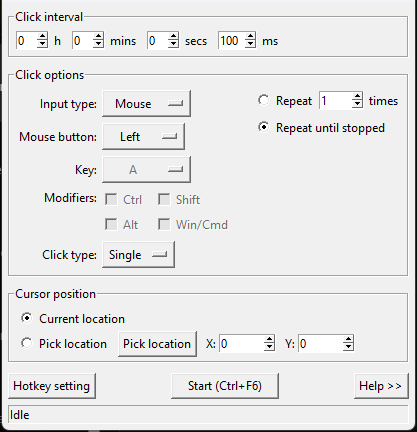
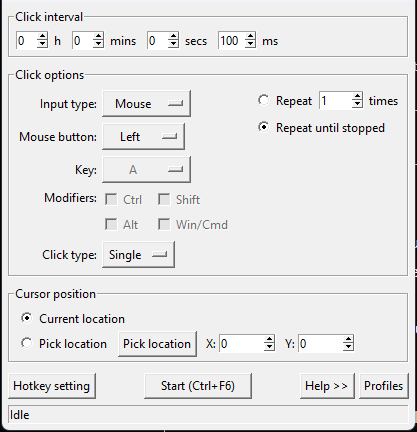
Add profiles and keyboard mouse action sequences

diff --git a/autoclicker/app.py b/autoclicker/app.py
@@ -7,9 +7,10 @@ import webbrowser
 from . import keys as keymod
 from .config import load_config, save_config
 from .engine import PressEngine, PressSettings
+from .profiles import load_profiles, save_profiles
 from . import updater
 
-APP_NAME = "AutoKeyPresser 1.1"
+APP_NAME = "AutoKeyPresser 1.2"
 
 HOTKEY_MODS = [
     "None",
@@ -68,6 +69,7 @@ class AutoClickerApp:
         self.queue = queue.Queue()
         self.engine = None
         self.hotkey_listener = None
+        self.pending_actions = []
 
         self._build_ui()
         self._apply_config()
@@ -208,6 +210,9 @@ class AutoClickerApp:
         tk.Button(bottom, text="Help >>", command=self._open_help).grid(
             row=0, column=2, padx=(4, 0), pady=2
         )
+        tk.Button(bottom, text="Profiles", command=self._open_profiles).grid(
+            row=0, column=3, padx=(4, 0), pady=2
+        )
 
         # --- Status bar ------------------------------------------------------
         self.status_var = tk.StringVar(value="Idle")
@@ -292,6 +297,32 @@ class AutoClickerApp:
         s.fixed_y = int(self.y_var.get() or 0)
         return s
 
+    def _current_action(self):
+        settings = self._collect_settings()
+        return {
+            "input_type": settings.input_type,
+            "mouse_button": settings.mouse_button,
+            "key": settings.key,
+            "modifiers": list(settings.modifiers),
+            "click_type": settings.click_type,
+            "use_fixed_position": settings.use_fixed_position,
+            "fixed_x": settings.fixed_x,
+            "fixed_y": settings.fixed_y,
+        }
+
+    def _apply_action(self, action):
+        self.input_type_var.set("Keyboard" if action.get("input_type") == "keyboard" else "Mouse")
+        self.mouse_button_var.set(action.get("mouse_button", "left").title())
+        self.key_var.set(next((d for d, k in keymod.KEY_MAP if k == action.get("key")), "A"))
+        modifiers = action.get("modifiers", [])
+        for name, var in self.modifier_vars.items():
+            var.set(keymod.os_modifier(name) in modifiers)
+        self.click_type_var.set(action.get("click_type", "single").title())
+        self.cursor_mode_var.set("pick" if action.get("use_fixed_position") else "current")
+        self.x_var.set(str(action.get("fixed_x", 0)))
+        self.y_var.set(str(action.get("fixed_y", 0)))
+        self._refresh_action_fields()
+
     def _toggle(self):
         if self.engine and self.engine.running:
             self._stop()
@@ -307,6 +338,7 @@ class AutoClickerApp:
             messagebox.showerror(APP_NAME, "Please enter valid numbers.")
             return
         self.engine = PressEngine(self.settings, on_status=self.queue.put)
+        self.settings.actions = list(self.pending_actions)
         self.engine.start()
         self._update_running_ui(True)
         self.status_var.set("Running - clicks: 0")
@@ -519,3 +551,83 @@ content you own or are authorized to automate.
         finally:
             self._stop_hotkey_listener()
             self.root.destroy()
+
+    def _open_profiles(self):
+        profiles = load_profiles()
+        win = tk.Toplevel(self.root)
+        win.title("Profiles and sequences")
+        win.resizable(False, False)
+        win.transient(self.root)
+
+        names = tk.StringVar(value=sorted(profiles))
+        tk.Label(win, text="Saved profiles:").grid(row=0, column=0, padx=6, pady=(6, 2), sticky="w")
+        listing = tk.Listbox(win, listvariable=names, height=7, width=28, exportselection=False)
+        listing.grid(row=1, column=0, columnspan=2, padx=6, pady=2)
+        name_var = tk.StringVar()
+        tk.Label(win, text="Name:").grid(row=2, column=0, padx=6, sticky="e")
+        tk.Entry(win, textvariable=name_var, width=24).grid(row=2, column=1, padx=6, pady=4)
+
+        def selected_name():
+            selected = listing.curselection()
+            return listing.get(selected[0]) if selected else name_var.get().strip()
+
+        def refresh():
+            names.set(sorted(profiles))
+
+        def save_current():
+            name = name_var.get().strip()
+            if not name:
+                messagebox.showerror(APP_NAME, "Enter a profile name.", parent=win)
+                return
+            try:
+                action = self._current_action()
+            except ValueError:
+                messagebox.showerror(APP_NAME, "Please enter valid values first.", parent=win)
+                return
+            profiles[name] = {"actions": [action]}
+            save_profiles(profiles)
+            refresh()
+
+        def add_action():
+            name = selected_name()
+            if not name:
+                messagebox.showerror(APP_NAME, "Select or enter a profile name.", parent=win)
+                return
+            try:
+                action = self._current_action()
+            except ValueError:
+                messagebox.showerror(APP_NAME, "Please enter valid values first.", parent=win)
+                return
+            profiles.setdefault(name, {"actions": []}).setdefault("actions", []).append(action)
+            save_profiles(profiles)
+            name_var.set(name)
+            refresh()
+
+        def load_profile(run=False):
+            name = selected_name()
+            profile = profiles.get(name, {})
+            actions = profile.get("actions", [])
+            if not actions:
+                return
+            self._apply_action(actions[0])
+            self.pending_actions = actions if len(actions) > 1 else []
+            if run:
+                self._start()
+
+        def delete_profile():
+            name = selected_name()
+            if name in profiles:
+                del profiles[name]
+                save_profiles(profiles)
+                refresh()
+
+        buttons = tk.Frame(win)
+        buttons.grid(row=3, column=0, columnspan=2, pady=6)
+        for text, command in (
+            ("Save current", save_current),
+            ("Add action", add_action),
+            ("Load", load_profile),
+            ("Run sequence", lambda: load_profile(True)),
+            ("Delete", delete_profile),
+        ):
+            tk.Button(buttons, text=text, command=command).pack(side="left", padx=2)

diff --git a/autoclicker/engine.py b/autoclicker/engine.py
@@ -17,6 +17,7 @@ class PressSettings:
     use_fixed_position: bool = False
     fixed_x: int = 0
     fixed_y: int = 0
+    actions: list = field(default_factory=list)
 
 
 class PressEngine:
@@ -52,32 +53,52 @@ class PressEngine:
                 self.settings.repeat_count, 0
             )
             done = 0
+            cycles = 0
+            actions = self.settings.actions or [self.settings]
             while not self._stop_event.is_set():
-                self._press_once()
-                self.count += 1
-                done += 1
-                self.on_status(("status", self.count))
-                if limit is not None and done >= limit:
+                for action in actions:
+                    if self._stop_event.is_set():
+                        break
+                    self._press_action(action)
+                    self.count += 1
+                    done += 1
+                    self.on_status(("status", self.count))
+                    if self._stop_event.wait(interval):
+                        break
+                cycles += 1
+                if limit is not None and cycles >= limit:
                     break
-                self._stop_event.wait(interval)
         finally:
             self.on_status(("done", self.count))
 
     def _press_once(self):
-        s = self.settings
-        if s.input_type == "mouse":
-            x, y = (s.fixed_x, s.fixed_y) if s.use_fixed_position else pyautogui.position()
-            if s.click_type == "double":
-                pyautogui.click(x, y, clicks=2, interval=0.02, button=s.mouse_button)
-            else:
-                pyautogui.click(x, y, button=s.mouse_button)
+        self._press_action(self.settings)
+
+    def _press_action(self, action):
+        if isinstance(action, PressSettings):
+            value = lambda name, default=None: getattr(action, name, default)
         else:
-            if s.modifiers:
-                pyautogui.hotkey(*s.modifiers, s.key)
+            value = lambda name, default=None: action.get(name, default)
+
+        if value("input_type", "mouse") == "mouse":
+            x, y = (
+                (value("fixed_x", 0), value("fixed_y", 0))
+                if value("use_fixed_position", False)
+                else pyautogui.position()
+            )
+            if value("click_type", "single") == "double":
+                pyautogui.click(x, y, clicks=2, interval=0.02, button=value("mouse_button", "left"))
             else:
-                pyautogui.press(s.key)
-            if s.click_type == "double":
-                if s.modifiers:
-                    pyautogui.hotkey(*s.modifiers, s.key)
+                pyautogui.click(x, y, button=value("mouse_button", "left"))
+        else:
+            modifiers = value("modifiers", [])
+            key = value("key", "a")
+            if modifiers:
+                pyautogui.hotkey(*modifiers, key)
+            else:
+                pyautogui.press(key)
+            if value("click_type", "single") == "double":
+                if modifiers:
+                    pyautogui.hotkey(*modifiers, key)
                 else:
-                    pyautogui.press(s.key)
+                    pyautogui.press(key)

diff --git a/tests/test_engine.py b/tests/test_engine.py
@@ -86,6 +86,24 @@ class PressEngineTests(unittest.TestCase):
             thread.join(timeout=2)
         click.assert_called_once_with(100, 200, button="left")
 
+    def test_action_sequence_repeats_as_cycles(self):
+        settings = make_engine(
+            repeat_until_stopped=False,
+            repeat_count=2,
+            interval_seconds=0,
+            actions=[
+                {"input_type": "keyboard", "key": "a", "modifiers": [], "click_type": "single"},
+                {"input_type": "keyboard", "key": "b", "modifiers": [], "click_type": "single"},
+            ],
+        )
+        with mock.patch("autoclicker.engine.pyautogui.press") as press:
+            engine = PressEngine(settings, on_status=lambda _m: None)
+            engine.start()
+            thread = engine._thread
+            thread.join(timeout=2)
+        self.assertEqual(engine.count, 4)
+        self.assertEqual([call.args[0] for call in press.call_args_list], ["a", "b", "a", "b"])
+
 
 if __name__ == "__main__":
     unittest.main()

diff --git a/autoclicker/config.py b/autoclicker/config.py
@@ -1,8 +1,9 @@
 import json
 from pathlib import Path
 
-CONFIG_DIR = Path.home() / ".op_auto_clicker"
+CONFIG_DIR = Path.home() / ".autokeypresser"
 CONFIG_FILE = CONFIG_DIR / "config.json"
+LEGACY_CONFIG_FILE = Path.home() / ".op_auto_clicker" / "config.json"
 
 DEFAULTS = {
     "input_type": "mouse",
@@ -27,7 +28,8 @@ DEFAULTS = {
 def load_config():
     data = dict(DEFAULTS)
     try:
-        with open(CONFIG_FILE, encoding="utf-8") as fh:
+        path = CONFIG_FILE if CONFIG_FILE.exists() else LEGACY_CONFIG_FILE
+        with open(path, encoding="utf-8") as fh:
             saved = json.load(fh)
         data.update({key: saved[key] for key in data if key in saved})
     except (OSError, ValueError):

diff --git a/autoclicker/profiles.py b/autoclicker/profiles.py
@@ -1,0 +1,20 @@
+import json
+from pathlib import Path
+
+PROFILE_DIR = Path.home() / ".autokeypresser"
+PROFILE_FILE = PROFILE_DIR / "profiles.json"
+
+
+def load_profiles():
+    try:
+        with open(PROFILE_FILE, encoding="utf-8") as fh:
+            data = json.load(fh)
+        return data if isinstance(data, dict) else {}
+    except (OSError, ValueError):
+        return {}
+
+
+def save_profiles(profiles):
+    PROFILE_DIR.mkdir(parents=True, exist_ok=True)
+    with open(PROFILE_FILE, "w", encoding="utf-8") as fh:
+        json.dump(profiles, fh, indent=2)

diff --git a/scripts/generate_banner.py b/scripts/generate_banner.py
@@ -22,7 +22,7 @@ bold = next((f for f in fonts if f.exists()), None)
 title_font = ImageFont.truetype(str(bold), 64) if bold else ImageFont.load_default()
 sub_font = ImageFont.truetype(str(bold), 26) if bold else ImageFont.load_default()
 
-title = "AutoKeyPresser 1.1"
+title = "AutoKeyPresser 1.2"
 sub = "Cross-platform auto presser - keyboard & mouse"
 
 tw = draw.textlength(title, font=title_font)

diff --git a/README.md b/README.md
@@ -1,5 +1,5 @@
 <p align="center">
-	<img src="img/banner.png" alt="AutoKeyPresser 1.1" />
+	<img src="img/banner.png" alt="AutoKeyPresser 1.2" />
 </p>
 
 <p align="center">
@@ -15,7 +15,7 @@ AutoKeyPresser is an open-source, easy to use, cross-platform auto presser for
 any mouse button, on a classic Windows-style utility interface.
 
 ![Example image](img/example.png)
-*v1.1*
+*v1.2*
 
 [![forthebadge](https://forthebadge.com/images/badges/made-with-python.svg)](https://www.python.org/)
 
@@ -30,7 +30,9 @@ any mouse button, on a classic Windows-style utility interface.
  * Click on the current cursor location or a specified fixed location only;
  * Start / Stop with a custom global hotkey [default F6];
  * Settings are remembered between runs;
- * Checks GitHub Releases for updates and can download the Windows installer.
+ * Checks GitHub Releases for updates and can download the Windows installer;
+ * Saves reusable profiles;
+ * Runs keyboard and mouse actions as reusable sequences.
 
 ### How fast can it press?
 With a 1 millisecond interval it can easily reach hundreds of presses per
